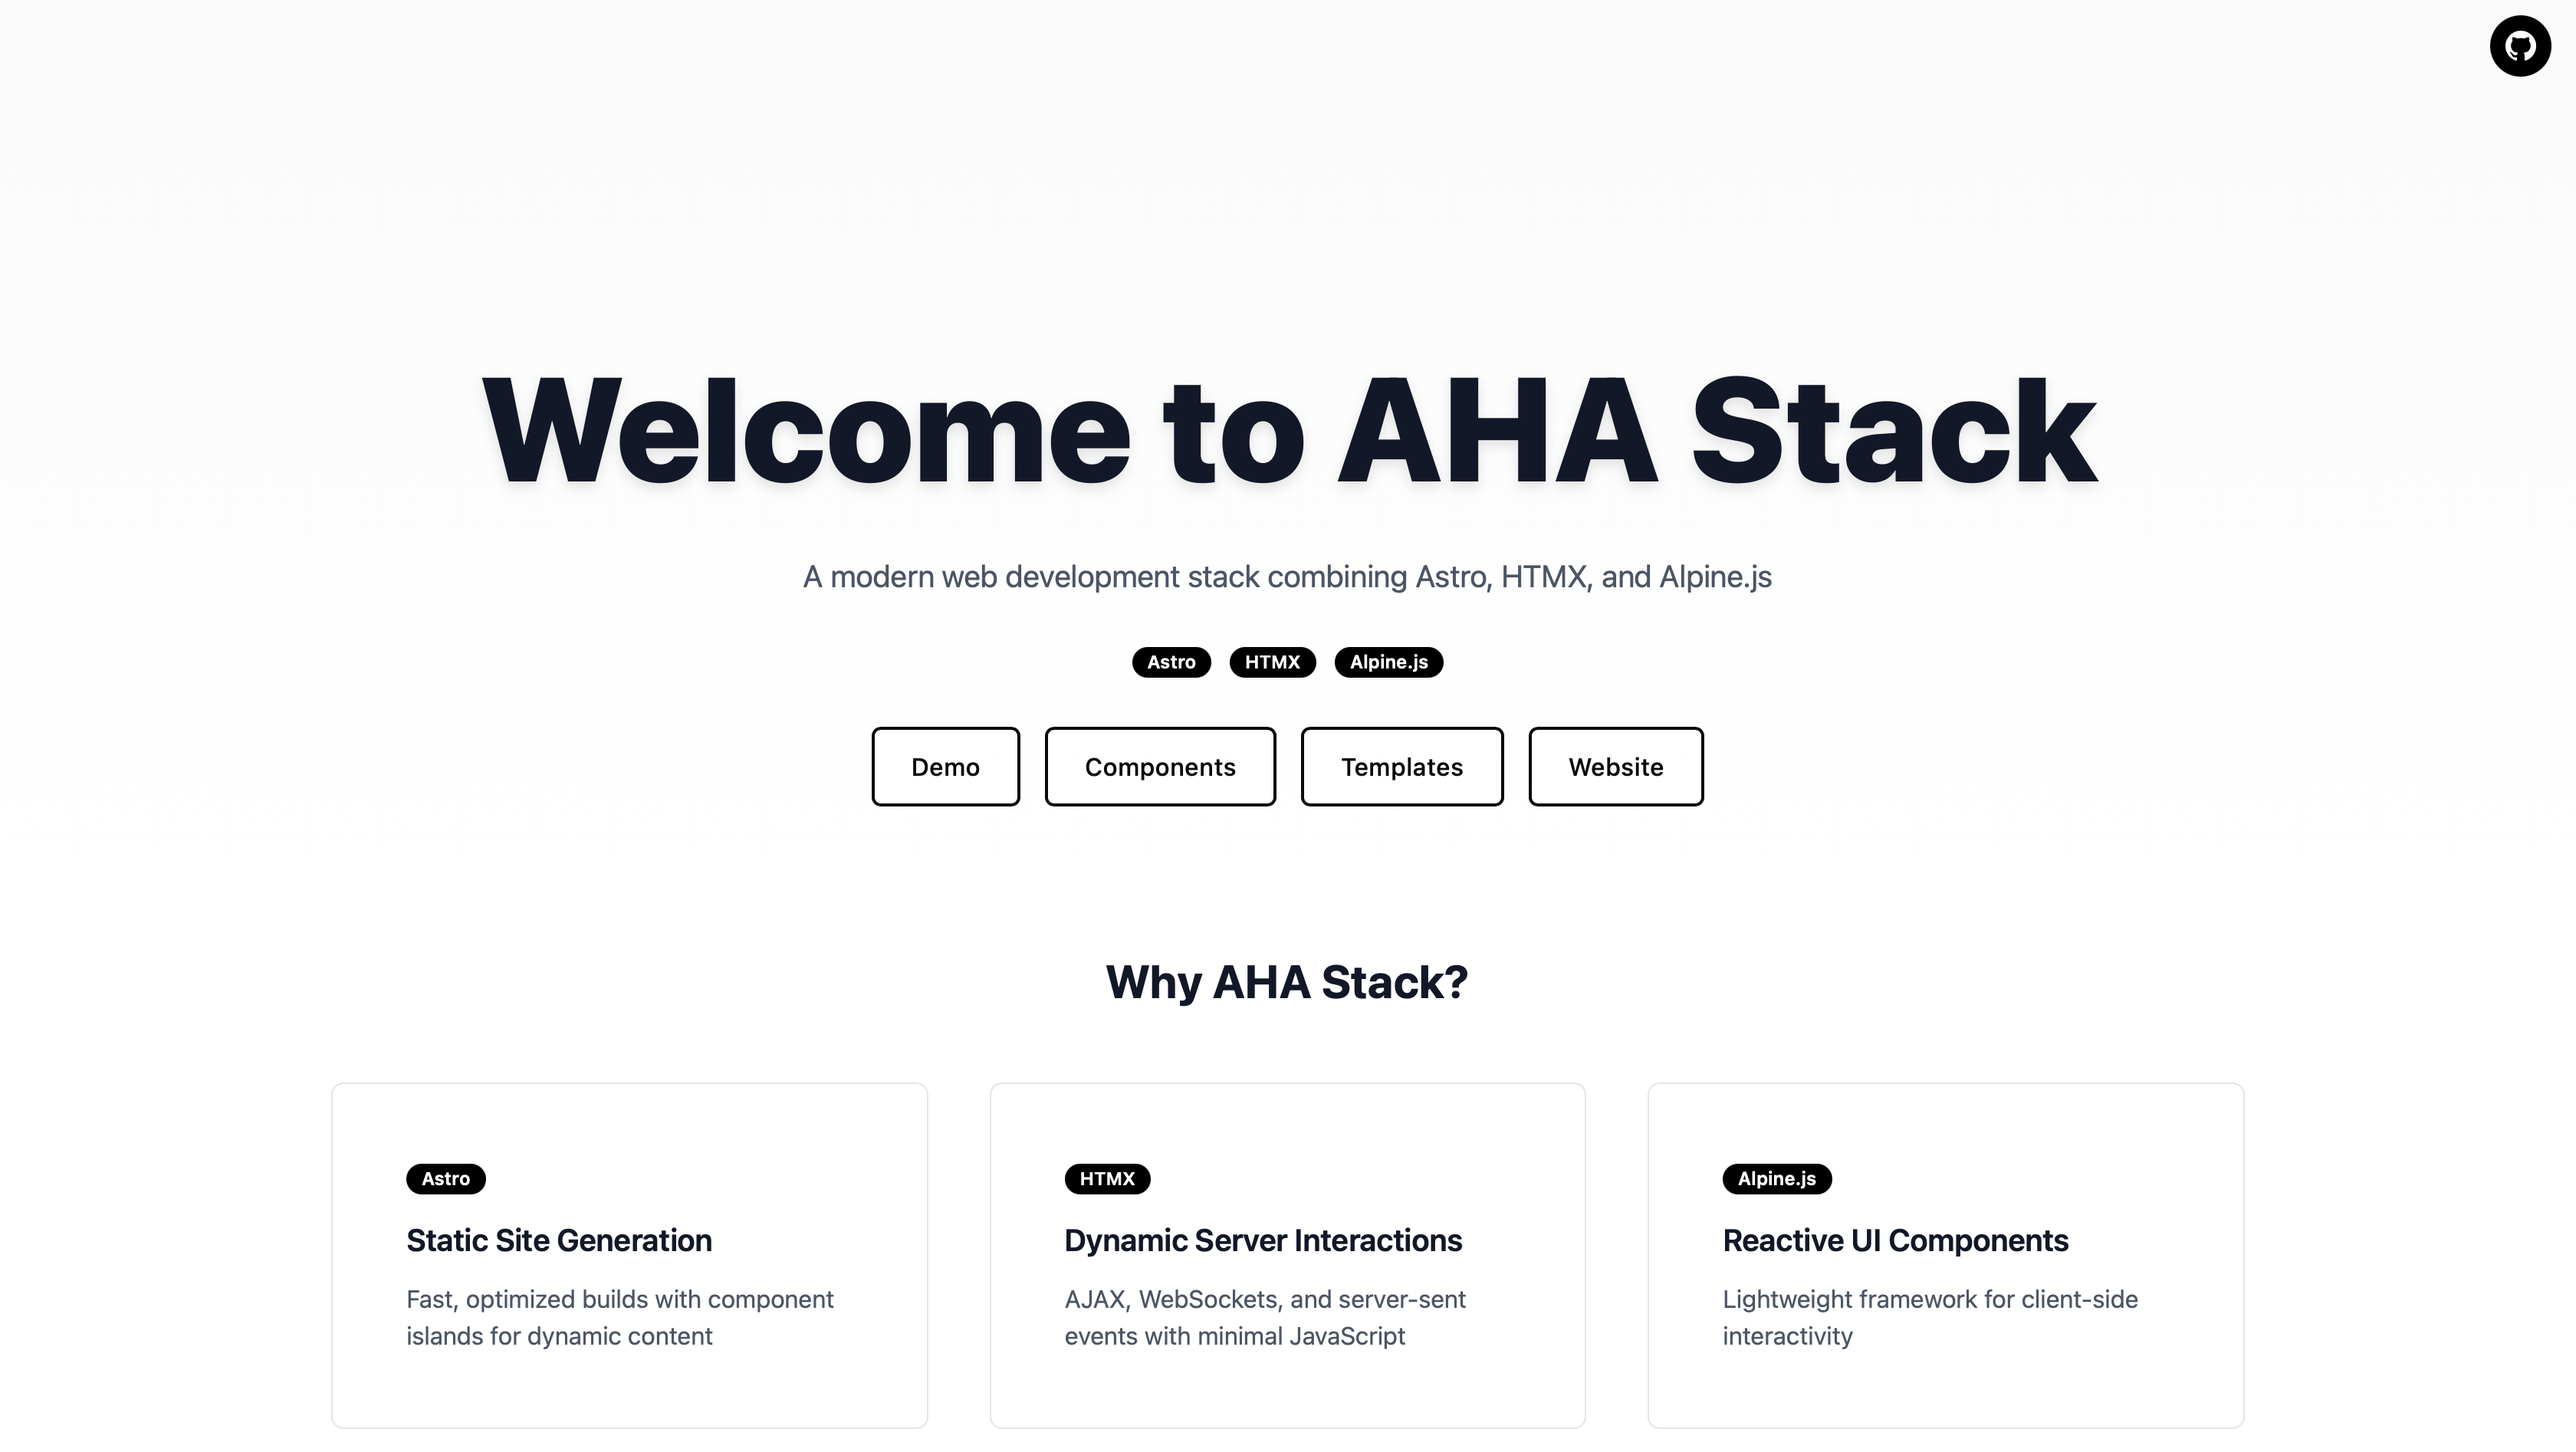
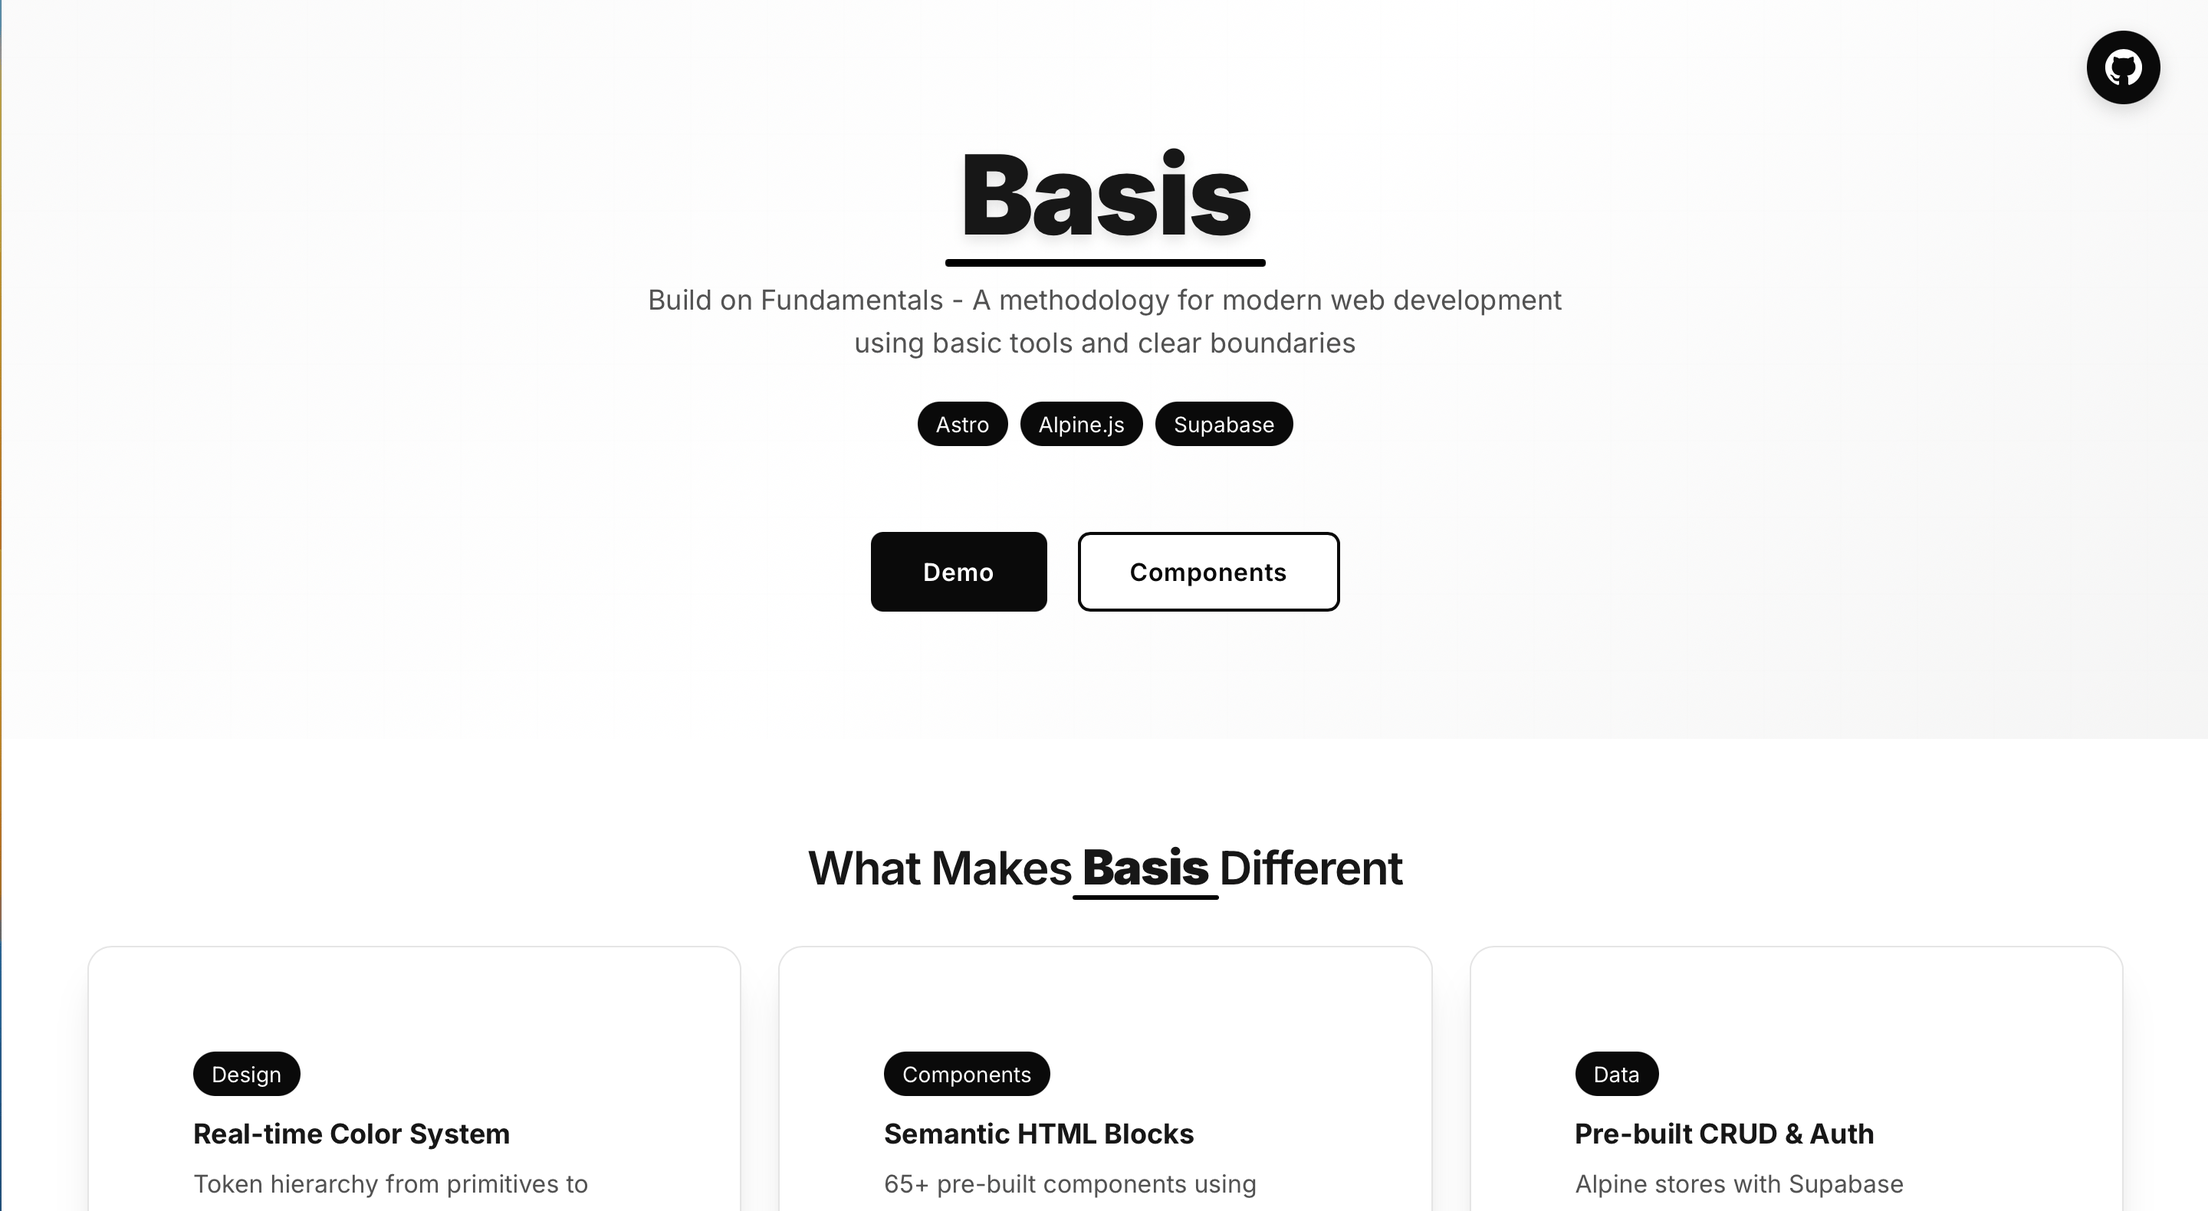
update for new branding and new tech

diff --git a/src/styles/pages/home.css b/src/styles/pages/home.css
@@ -49,6 +49,7 @@
   display: flex;
   flex-direction: column;
   justify-content: center;
+  align-items: center;
 }
 
 .hero-background {
@@ -67,6 +68,53 @@
   z-index: 10;
   text-shadow: 0 4px 12px rgba(0, 0, 0, 0.1);
   letter-spacing: -0.02em;
+  display: inline-block;
+}
+
+.hero-title::after {
+  content: '';
+  position: absolute;
+  bottom: -8px;
+  left: -5%;
+  width: 110%;
+  height: 5px;
+  background: #000000;
+  border-radius: 2px;
+  animation: underline-grow 0.8s ease-out;
+  transform-origin: left center;
+}
+
+@keyframes underline-grow {
+  from {
+    transform: scaleX(0);
+    opacity: 0;
+  }
+  to {
+    transform: scaleX(1);
+    opacity: 1;
+  }
+}
+
+/* Basis underline class for any text */
+.basis-underline {
+  position: relative;
+  display: inline-block;
+  font-weight: 800;
+  font-size: 1.05em;
+}
+
+.basis-underline::after {
+  content: '';
+  position: absolute;
+  bottom: -2px;
+  left: -8%;
+  width: 116%;
+  height: 3px;
+  background: #000000;
+  border-radius: 2px;
+  animation: underline-grow 0.8s ease-out;
+  animation-delay: 0.3s;
+  animation-fill-mode: both;
 }
 
 .hero-description {
@@ -95,16 +143,31 @@
   display: flex;
   flex-direction: column;
   justify-content: center;
-  gap: 0.75rem;
+  gap: 1rem;
   position: relative;
   z-index: 10;
   align-items: center;
+  margin-top: 2rem;
 }
 
 @media (min-width: 640px) {
   .hero-buttons {
     flex-direction: row;
+    gap: 1.25rem;
   }
+}
+
+/* Custom button styles for hero section */
+.hero-buttons .button {
+  padding: 0.75rem 2rem;
+  border-radius: 0.5rem;
+  font-weight: 600;
+  transition: all 0.2s ease;
+}
+
+.hero-buttons .button:hover {
+  transform: translateY(-2px);
+  box-shadow: 0 4px 12px rgba(0, 0, 0, 0.1);
 }
 
 .features-section {
@@ -116,7 +179,7 @@
 
 .features-title {
   font-size: 1.875rem;
-  font-weight: 800;
+  font-weight: 600;
   text-align: center;
   margin-bottom: 2rem;
   color: var(--color-text);
@@ -131,8 +194,15 @@
 
 @media (min-width: 768px) {
   .features-grid {
-    grid-template-columns: repeat(3, 1fr);
+    grid-template-columns: repeat(2, 1fr);
     gap: 1.25rem;
+  }
+}
+
+@media (min-width: 1024px) {
+  .features-grid {
+    grid-template-columns: repeat(3, 1fr);
+    gap: 1.5rem;
   }
 }
 

diff --git a/src/content/pages/home.md b/src/content/pages/home.md
@@ -14,6 +14,12 @@ features:
   - name: "Content"
     title: "Markdown-Driven Pages"
     description: "Write content in Markdown with frontmatter. Components handle the presentation."
+  - name: "Pages"
+    title: "Composable Page Building"
+    description: "Stack components like LEGO blocks. Each page is just HTML composition with zero JavaScript overhead."
+  - name: "Deploy"
+    title: "Zero Configuration"
+    description: "Push to GitHub, deploy automatically. No build configs, no CI/CD setup, it just works."
 quickstart:
   - file: "content/"
     icon: "✏"
